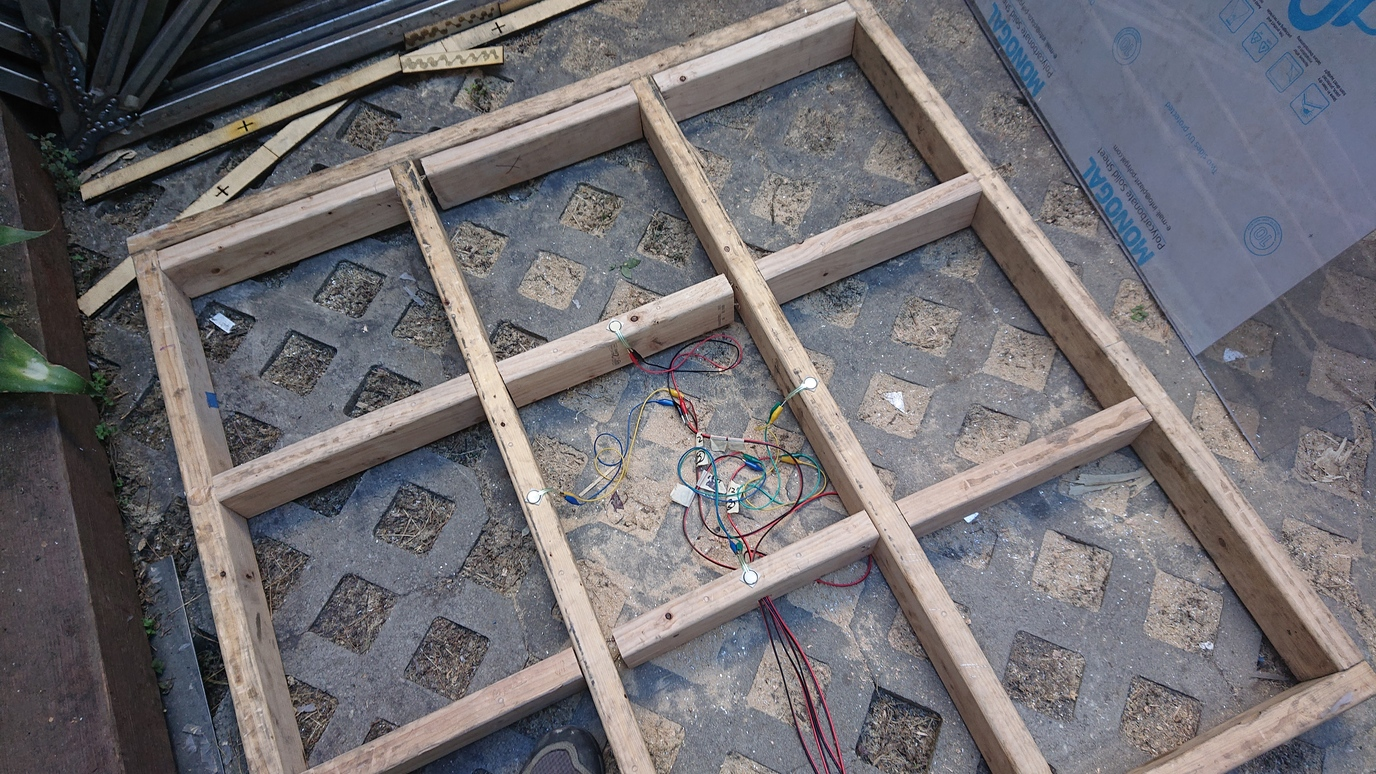
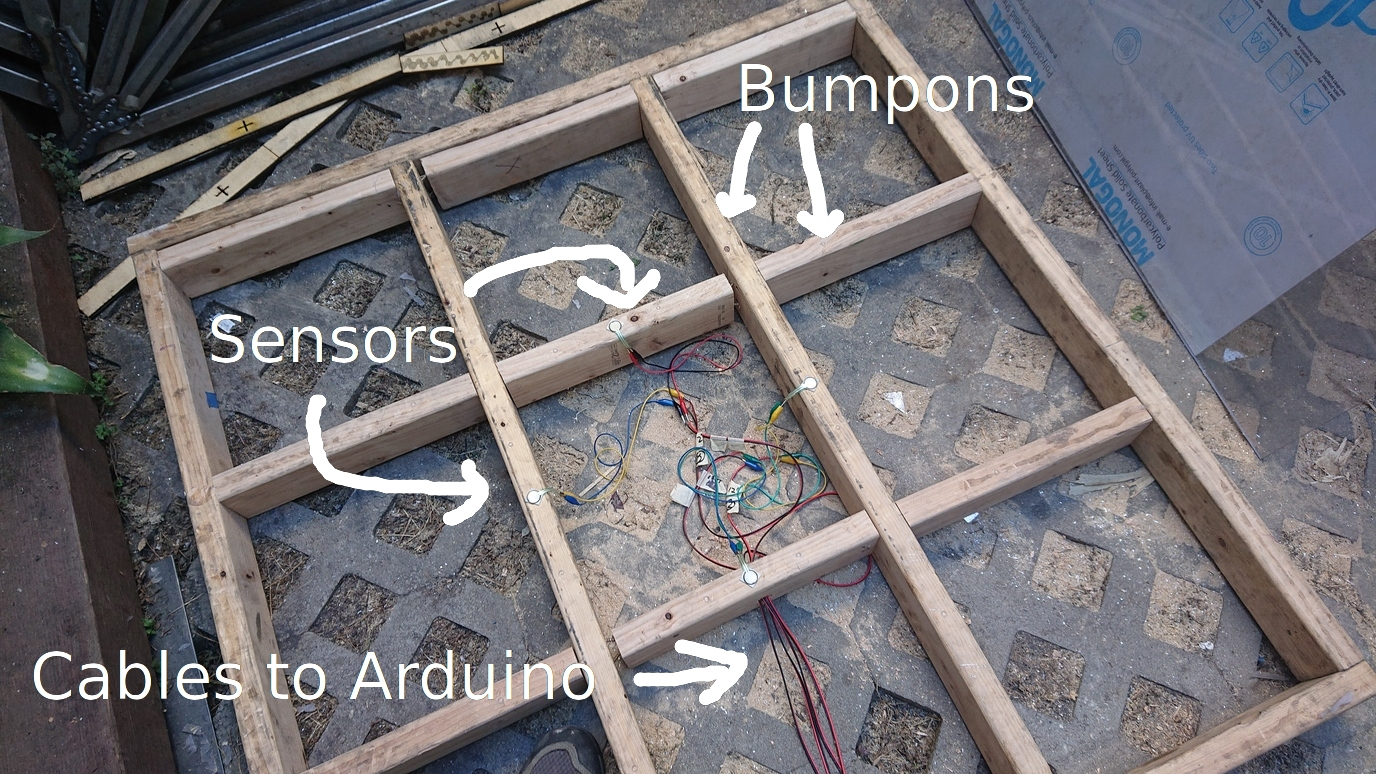
Clarified grammar and annotated photos in dancefloor article

diff --git a/articles/how-to-build-an-interactive-dancefloor-theoretically.md b/articles/how-to-build-an-interactive-dancefloor-theoretically.md
@@ -6,10 +6,10 @@
   "summary": "Explanation of dancefloor prototype for [Cone Down](https://twolfson.com/2019-10-24-cone-down)"
 }
 
-As part of building [Cone Down][], one of the features for our dancefloor was to make it interactive. We went with pressure sensitivity, built a prototype, but ran into 2 snags that stopped us:
+As part of building [Cone Down][], one of our features was making the dancefloor interactive. We went with pressure sensitivity, built a prototype, but ran into 2 snags that stopped us:
 
 - We ran out of time (e.g. assembly, debugging)
-- Dancefloor polycarbonate cover warped under heat (discovered at Burning Man) thus further iteration would be an even larger time sink
+- Dancefloor cover (polycarbonate sheet) warped under heat (discovered at Burning Man) thus further iteration became implausible at the event
 
 [Cone Down]: https://twolfson.com/2019-10-24-cone-down
 
@@ -23,7 +23,13 @@ This is a layout for 1 of the 9 tiles dancefloor. Inside of each tile is a small
 
 The 4 sensors in place will detect the "+" sign shape for the dancefloor tile. We settled on this approach as it's much more economical than the full square which requires double the cost
 
-Each sensor had a mounting tape square underneath to keep it in place. We used bumpons to distribute the load from the weight of the polycarbonate
+Each sensor was a [force sensitive resistor][] using a secondary static resistor to create a voltage divider circuit. Surprisingly similar to this:
+
+https://learn.sparkfun.com/tutorials/force-sensitive-resistor-hookup-guide#example-hardware-hookup
+
+[force sensitive resistor]: https://en.wikipedia.org/wiki/Force-sensing_resistor
+
+For pressure detection/keeping the sensors in place, each sensor had a mounting tape square underneath and we used bumpons to distribute the load from the weight of the polycarbonate
 
 Items used:
 
@@ -39,13 +45,13 @@ Items used:
 
 Here's a high level rundown of our process:
 
-- Considered many sensor types from [Adafruit][] and [SparkFun][] websites (e.g. light, sound, pressure, flex)
-- Went with force sensitive resistor as it
+- Considered many types of sensors sold by [Adafruit][] and [SparkFun][] (e.g. light, sound, pressure, flex)
+- Went with force sensitive resistor as it:
   - Doesn't break under heavy weights (e.g. accidental art car on platform)
   - Won't have light/sound transmission issues
   - Easy to wire up (only need power and ground)
   - In hindsight, we should have explored flat switch membranes but we had too little time when the suggestion came up
-- Set up test with Arduino, force sensitive resistors (FSR), and 25' of cable round trip (dancefloor was 12'x12')
+- Set up test with Arduino, force sensitive resistors (FSR), and 50' of 22AWG cable round trip (not in setup/photo yet) (dancefloor was 12'x12', thus at most 24' there and 24' back)
   ![Arduino and sensor test](/public/images/articles/how-to-build-an-interactive-dancefloor-theoretically/arduino-sensor-test.jpg)
 - Iterated with FSR on small wooden box
   - Using FSR taped down didn't work
@@ -56,13 +62,13 @@ Here's a high level rundown of our process:
 - Made large scale prototype for 1 dancefloor tile
   - Sensors didn't stay in place with tape, also broke easily
   - Added mounting tape to bottom of sensors, worked great
-  - Getting lots of false positives due to mounting tape oversticking polycarbonate at times
+  - Got lots of false positives due to mounting tape oversticking polycarbonate at times
   - Explored a few configurations (e.g. corners of tile, bumpons next to sensors, caulked down polycarbonate)
     ![Prototype with sensors in corners](/public/images/articles/how-to-build-an-interactive-dancefloor-theoretically/prototype-with-sensors-in-corners.jpg)
     ![Sensor with bumpons adjacent](/public/images/articles/how-to-build-an-interactive-dancefloor-theoretically/sensor-with-bumpons-adjacent.jpg)
-  - Concluded that ideal setup is: edges of inner 3x3 with bumpons next to sensors
+  - Concluded that ideal setup is: sensors on edges of inner 3x3 with bumpons next to sensors
     ![Final prototype](/public/images/articles/how-to-build-an-interactive-dancefloor-theoretically/prototype.jpg)
-- Started building cables and bought sensors for on-playa installation but ran out of time
+- Started building cables and bought full sensor order for on-playa installation but ran out of time
 
 [Adafruit]: https://www.adafruit.com/
 [SparkFun]: https://www.sparkfun.com/
